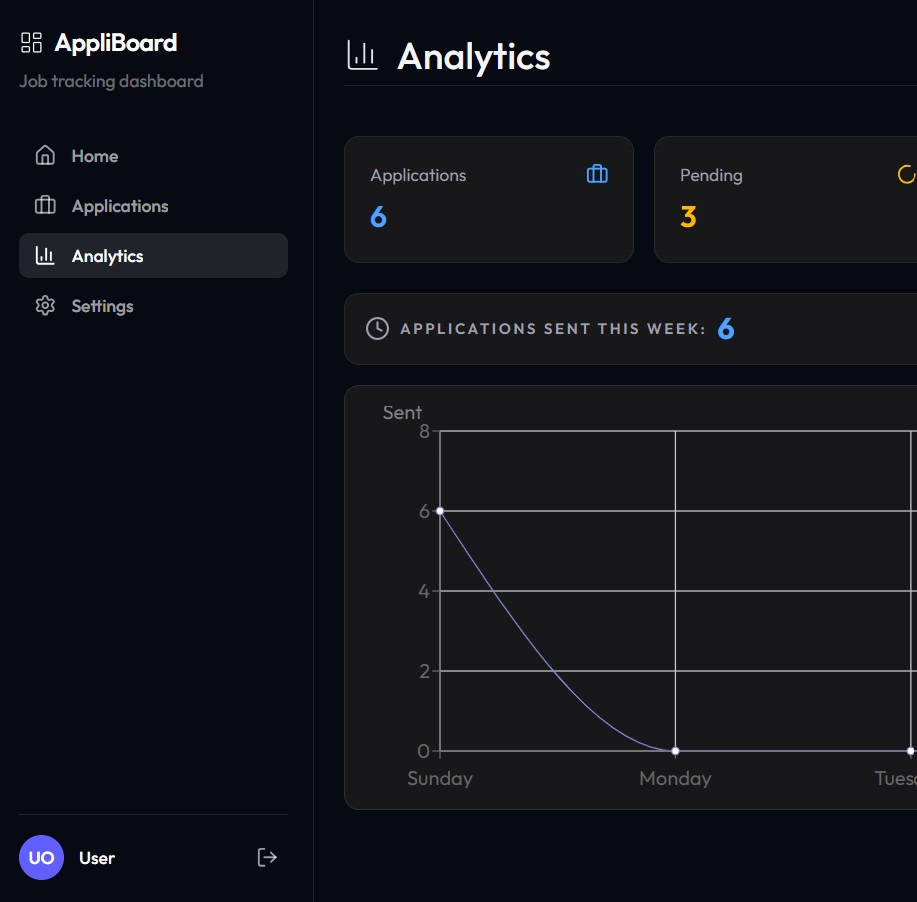
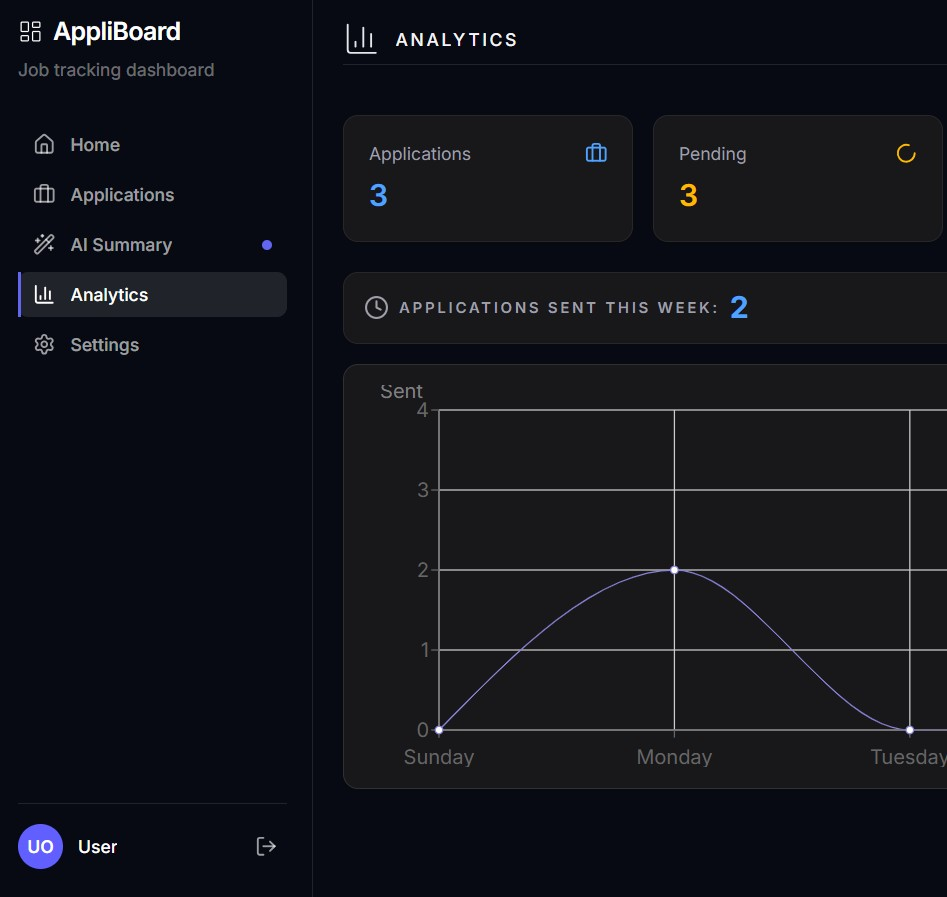
ui changes

diff --git a/frontend/src/features/dashboard/ai_summary/current/pages/AiSummaryPage.tsx b/frontend/src/features/dashboard/ai_summary/current/pages/AiSummaryPage.tsx
@@ -3,7 +3,6 @@ import { useNavigate } from "react-router-dom";
 import { Button } from "../../../../../shared/ui/Button";
 import { DashboardHeader } from "../../../layout/dashboard_header/DashboardHeader";
 import { AnalysisSummary } from "../components/AnalysisSummary";
-import { dummyAiSummary } from "../data/dummyAiSummary";
 
 export function AiSummaryPage() {
     const navigate = useNavigate();
@@ -13,20 +12,21 @@ export function AiSummaryPage() {
             <DashboardHeader Icon={WandSparkles} title="Monthly Analysis" />
 
             <main className="mx-auto mt-8 max-w-5xl space-y-5 sm:mt-10 sm:space-y-6">
-                <section className="relative overflow-hidden rounded-3xl bg-zinc-950 px-5 py-7 text-white shadow-xl shadow-indigo-950/10 dark:border dark:border-white/8 sm:px-8 sm:py-9">
-                    <div className="pointer-events-none absolute -right-20 -top-28 size-72 rounded-full bg-indigo-500/25 blur-3xl" />
+                
+                <section className="relative overflow-hidden rounded-3xl border border-black/8 bg-white px-5 py-7 text-zinc-900 shadow-xl shadow-indigo-950/10 dark:border-white/8 dark:bg-zinc-950 dark:text-white sm:px-8 sm:py-9">
+                    <div className="pointer-events-none absolute -right-20 -top-28 size-72 rounded-full bg-indigo-500/15 blur-3xl dark:bg-indigo-500/25" />
                     <div className="pointer-events-none absolute -bottom-32 left-1/3 size-64 rounded-full bg-sky-500/15 blur-3xl" />
 
                     <div className="relative flex flex-col gap-7 sm:flex-row sm:items-center sm:justify-between">
                         <div className="max-w-xl">
-                            <div className="flex items-center gap-2 text-xs font-semibold uppercase tracking-[0.16em] text-indigo-200">
+                            <div className="flex items-center gap-2 text-xs font-semibold uppercase tracking-[0.16em] text-indigo-600 dark:text-indigo-200">
                                 <CalendarDays className="size-4" />
                                 July 2026
                             </div>
                             <h2 className="mt-3 text-2xl font-semibold tracking-tight sm:text-3xl">
                                 Analyze your month
                             </h2>
-                            <p className="mt-2 text-sm leading-6 text-zinc-300 sm:text-base">
+                            <p className="mt-2 text-sm leading-6 text-zinc-600 dark:text-zinc-300 sm:text-base">
                                 Get a concise AI summary based on your applications and activity from this month.
                             </p>
                         </div>
@@ -35,16 +35,16 @@ export function AiSummaryPage() {
                             <Button
                                 variant="headless"
                                 loading={false}
-                                leftIcon={<Sparkles className="size-4.5 text-indigo-600" />}
-                                className="inline-flex w-full cursor-pointer items-center justify-center gap-2 rounded-xl bg-white px-5 py-3.5 text-sm font-semibold text-zinc-950 shadow-lg shadow-black/20 transition-colors hover:bg-indigo-50 focus:outline-none focus:ring-2 focus:ring-indigo-300 disabled:cursor-not-allowed disabled:opacity-60"
+                                leftIcon={<Sparkles className="size-4.5 text-indigo-100 dark:text-indigo-600" />}
+                                className="inline-flex w-full cursor-pointer items-center justify-center gap-2 rounded-xl bg-indigo-600 px-5 py-3.5 text-sm font-semibold text-white shadow-lg shadow-indigo-600/20 transition-colors hover:bg-indigo-700 focus:outline-none focus:ring-2 focus:ring-indigo-300 disabled:cursor-not-allowed disabled:opacity-60 dark:bg-white dark:text-zinc-950 dark:shadow-black/20 dark:hover:bg-indigo-50"
                             >
                                 Analyze this month
                             </Button>
                             <Button
                                 variant="headless"
-                                leftIcon={<History className="size-4.5 text-indigo-200" />}
+                                leftIcon={<History className="size-4.5 text-indigo-600 dark:text-indigo-200" />}
                                 onClick={() => navigate("/dashboard/ai-summary/history")}
-                                className="inline-flex w-full cursor-pointer items-center justify-center gap-2 rounded-xl border border-white/15 bg-white/5 px-5 py-3 text-sm font-medium text-zinc-200 transition-colors hover:bg-white/10 hover:text-white focus:outline-none focus:ring-2 focus:ring-indigo-300"
+                                className="inline-flex w-full cursor-pointer items-center justify-center gap-2 rounded-xl border border-zinc-300 bg-zinc-100 px-5 py-3 text-sm font-medium text-zinc-700 transition-colors hover:bg-zinc-200 hover:text-zinc-950 focus:outline-none focus:ring-2 focus:ring-indigo-300 dark:border-white/15 dark:bg-white/5 dark:text-zinc-200 dark:hover:bg-white/10 dark:hover:text-white"
                             >
                                 View previous summaries
                             </Button>
@@ -52,7 +52,7 @@ export function AiSummaryPage() {
                     </div>
                 </section>
 
-                <AnalysisSummary analysis={dummyAiSummary} />
+                <AnalysisSummary analysis={null} />
             </main>
         </section>
     );

diff --git a/frontend/src/features/dashboard/ai_summary/current/components/EmptyAnalysis.tsx b/frontend/src/features/dashboard/ai_summary/current/components/EmptyAnalysis.tsx
@@ -1,0 +1,98 @@
+import { AlertCircle, CheckCircle2, Lightbulb, Sparkles, type LucideIcon } from "lucide-react";
+
+type PendingNote = {
+    label: string;
+    description: string;
+    icon: LucideIcon;
+    iconStyle: string;
+};
+
+
+const pendingNotes: PendingNote[] = [
+    {
+        label: "Strength",
+        description: "What is working well in your search.",
+        icon: CheckCircle2,
+        iconStyle: "bg-emerald-50 text-emerald-600/60 dark:bg-emerald-500/5 dark:text-emerald-300/50",
+    },
+    {
+        label: "Opportunity",
+        description: "Where a small change could pay off.",
+        icon: Lightbulb,
+        iconStyle: "bg-amber-50 text-amber-600/60 dark:bg-amber-500/5 dark:text-amber-300/50",
+    },
+    {
+        label: "Concern",
+        description: "What is slipping and needs attention.",
+        icon: AlertCircle,
+        iconStyle: "bg-red-50 text-red-600/60 dark:bg-red-500/5 dark:text-red-300/50",
+    },
+];
+
+
+export function EmptyAnalysis() {
+    return (
+        <article className="relative overflow-hidden rounded-3xl border border-zinc-200/80 bg-white shadow-sm shadow-zinc-200/50 dark:border-white/8 dark:bg-zinc-900/70 dark:shadow-none">
+                <div className="pointer-events-none absolute -right-20 -top-28 size-72 rounded-full bg-indigo-500/10 blur-3xl dark:bg-indigo-500/15" />
+                <div className="pointer-events-none absolute -bottom-32 left-1/3 size-64 rounded-full bg-sky-500/10 blur-3xl dark:bg-sky-500/15" />
+
+                <div className="relative border-b border-zinc-100 px-5 py-5 dark:border-zinc-800 sm:px-7">
+                    <div className="flex flex-wrap items-center justify-between gap-3">
+                        <div>
+                            <p className="text-xs font-semibold uppercase tracking-[0.18em] text-indigo-600 dark:text-indigo-300">
+                                AI analysis
+                            </p>
+                            <h2 className="mt-1 text-xl font-semibold text-zinc-950 dark:text-white">
+                                Your monthly summary
+                            </h2>
+                        </div>
+
+                        <span className="inline-flex items-center gap-2 rounded-full border border-zinc-200 bg-zinc-50 px-3 py-1.5 text-xs font-semibold text-zinc-500 dark:border-white/10 dark:bg-white/5 dark:text-zinc-400">
+                            <span className="size-1.5 rounded-full bg-zinc-400 dark:bg-zinc-500" />
+                            Not analyzed
+                        </span>
+                    </div>
+                </div>
+
+                <div className="relative px-5 py-6 sm:px-7 sm:py-7">
+                    <p className="text-xs font-semibold uppercase tracking-[0.14em] text-zinc-400 dark:text-zinc-500">
+                        This month will cover
+                    </p>
+
+                    <div className="mt-4 grid grid-cols-1 gap-3">
+                        {pendingNotes.map(({ label, description, icon: Icon, iconStyle }) => (
+                            <section
+                                key={label}
+                                className="flex items-start gap-4 rounded-2xl border border-dashed border-zinc-200 p-4 dark:border-zinc-700/70"
+                            >
+                                <span className={`grid size-9 shrink-0 place-items-center rounded-xl ${iconStyle}`}>
+                                    <Icon className="size-4.5" strokeWidth={1.8} aria-hidden="true" />
+                                </span>
+                                <div>
+                                    <h3 className="text-xs font-semibold uppercase tracking-[0.14em] text-zinc-400 dark:text-zinc-500">
+                                        {label}
+                                    </h3>
+                                    <p className="mt-1.5 text-sm leading-6 text-zinc-400 dark:text-zinc-500">
+                                        {description}
+                                    </p>
+                                </div>
+                            </section>
+                        ))}
+                    </div>
+
+                    <div className="mt-6 flex items-center gap-3 border-t border-zinc-100 pt-5 dark:border-zinc-800">
+                        <span className="grid size-8 shrink-0 place-items-center rounded-lg bg-indigo-50 text-indigo-600 dark:bg-indigo-500/10 dark:text-indigo-300">
+                            <Sparkles className="size-4" strokeWidth={1.8} aria-hidden="true" />
+                        </span>
+                        <p className="text-sm leading-6 text-zinc-500 dark:text-zinc-400">
+                            Run{" "}
+                            <span className="font-semibold text-zinc-700 dark:text-zinc-200">
+                                Analyze this month
+                            </span>{" "}
+                            above to generate your summary.
+                        </p>
+                    </div>
+                </div>
+            </article>
+    )
+}

diff --git a/frontend/src/features/dashboard/index/components/ActivitySection.tsx b/frontend/src/features/dashboard/index/components/ActivitySection.tsx
@@ -3,6 +3,7 @@ import { ArrowRightIcon, HistoryIcon } from "lucide-react";
 import { Button } from "../../../../shared/ui/Button";
 import activityService from "../api/activityService";
 import { ActivityRow } from "./ActivityRow";
+import type { ActivityDto } from "../models/ActivityDto";
 
 export function ActivitySection() {
 
@@ -12,10 +13,10 @@ export function ActivitySection() {
         staleTime: 1000 * 60 * 1
     });
 
-    const activitiesList = activities?.content.slice(0, 8) ?? [];
+    const activitiesList: ActivityDto[] = activities?.content.slice(0, 8) ?? [];
 
     return (
-        <section className="px-5 py-5 h-80 bg-white dark:bg-[#0d111d] rounded-xl border border-black/10 dark:border-white/10">
+        <section className="px-5 py-5 h-90 overflow-y-auto scrollbar-hide bg-white dark:bg-[#0d111d] rounded-xl border border-black/10 dark:border-white/10">
             <div className="flex justify-between items-center border-b border-black/10 dark:border-white/10 pb-5">
                 <h2 className="inline-flex items-center gap-2 text-lg font-medium dark:text-white">
                     <HistoryIcon className="w-5 h-5" />
@@ -33,7 +34,9 @@ export function ActivitySection() {
             ) : (
                 <div className="flex flex-col gap-2">
                     {activitiesList?.map((activity) => (
-                        <ActivityRow key={activity.id} activity={activity}  />
+                        <div key={activity.id} className="rounded-md px-2 py-1 odd:bg-zinc-50 dark:odd:bg-white/5">
+                            <ActivityRow activity={activity} />
+                        </div>
                     ))}
                 </div>
             )}

diff --git a/frontend/src/features/dashboard/applications/components/crud_modals/UpdateModal.tsx b/frontend/src/features/dashboard/applications/components/crud_modals/UpdateModal.tsx
@@ -104,7 +104,7 @@ export function UpdateModal({ application, isOpen, onClose }: UpdateModalProps) 
                             </div>
                         </div>
 
-                        <div className="hidden max-w-56 rounded-xl border border-zinc-200 bg-white/80 px-3 py-2 text-right text-xs text-zinc-500 shadow-sm backdrop-blur dark:border-zinc-800 dark:bg-zinc-900/80 dark:text-zinc-400 sm:block">
+                        <div className="hidden max-w-56 rounded-xl px-3 py-2 text-right text-xs text-zinc-500 shadow-sm backdrop-blur dark:text-zinc-400 sm:block">
                             <p className="font-medium uppercase tracking-wide">Editing</p>
                             <p className="mt-0.5 truncate text-sm font-semibold normal-case tracking-normal text-zinc-950 dark:text-zinc-50">
                                 {application.name}

diff --git a/frontend/src/features/dashboard/ai_summary/current/components/AnalysisSummary.tsx b/frontend/src/features/dashboard/ai_summary/current/components/AnalysisSummary.tsx
@@ -1,12 +1,20 @@
 import type { AiSummaryResponse } from "../models/AiSummaryResponse";
 import { AnalysisNote } from "./AnalysisNote";
+import { EmptyAnalysis } from "./EmptyAnalysis";
 import { TrendBadge } from "./TrendBadge";
 
 type AnalysisSummaryProps = {
-    analysis: AiSummaryResponse;
+    analysis: AiSummaryResponse | null;
 };
 
 export function AnalysisSummary({ analysis }: AnalysisSummaryProps) {
+
+    if (!analysis) {
+        return (
+            <EmptyAnalysis />
+        );
+    }
+
     return (
         <article className="overflow-hidden rounded-3xl border border-zinc-200/80 bg-white shadow-sm shadow-zinc-200/50 dark:border-white/8 dark:bg-zinc-900/70 dark:shadow-none">
             <div className="border-b border-zinc-100 px-5 py-5 dark:border-zinc-800 sm:px-7">

diff --git a/frontend/src/features/dashboard/layout/dashboard_header/DashboardHeader.tsx b/frontend/src/features/dashboard/layout/dashboard_header/DashboardHeader.tsx
@@ -30,7 +30,7 @@ export function DashboardHeader({ Icon, title }: DashboardHeaderProps) {
                 {/* Left */}
                 <div className="flex items-center gap-3 min-w-0">
                     <Icon strokeWidth={1.2} size={30} className=" text-gray-700 dark:text-gray-200 shrink-0" />
-                    <h1 className="text-xl lg:text-3xl font-medium text-gray-900 dark:text-gray-100 truncate">
+                    <h1 className="uppercase text-sm tracking-[0.15em] font-medium text-gray-900 dark:text-gray-100 truncate">
                         {title}
                     </h1>
                 </div>

diff --git a/frontend/src/index.css b/frontend/src/index.css
@@ -21,3 +21,12 @@ select {
 body {
   font-family: "Inter", sans-serif;
 }
+
+@utility scrollbar-hide {
+  -ms-overflow-style: none;
+  scrollbar-width: none;
+
+  &::-webkit-scrollbar {
+    display: none;
+  }
+}
